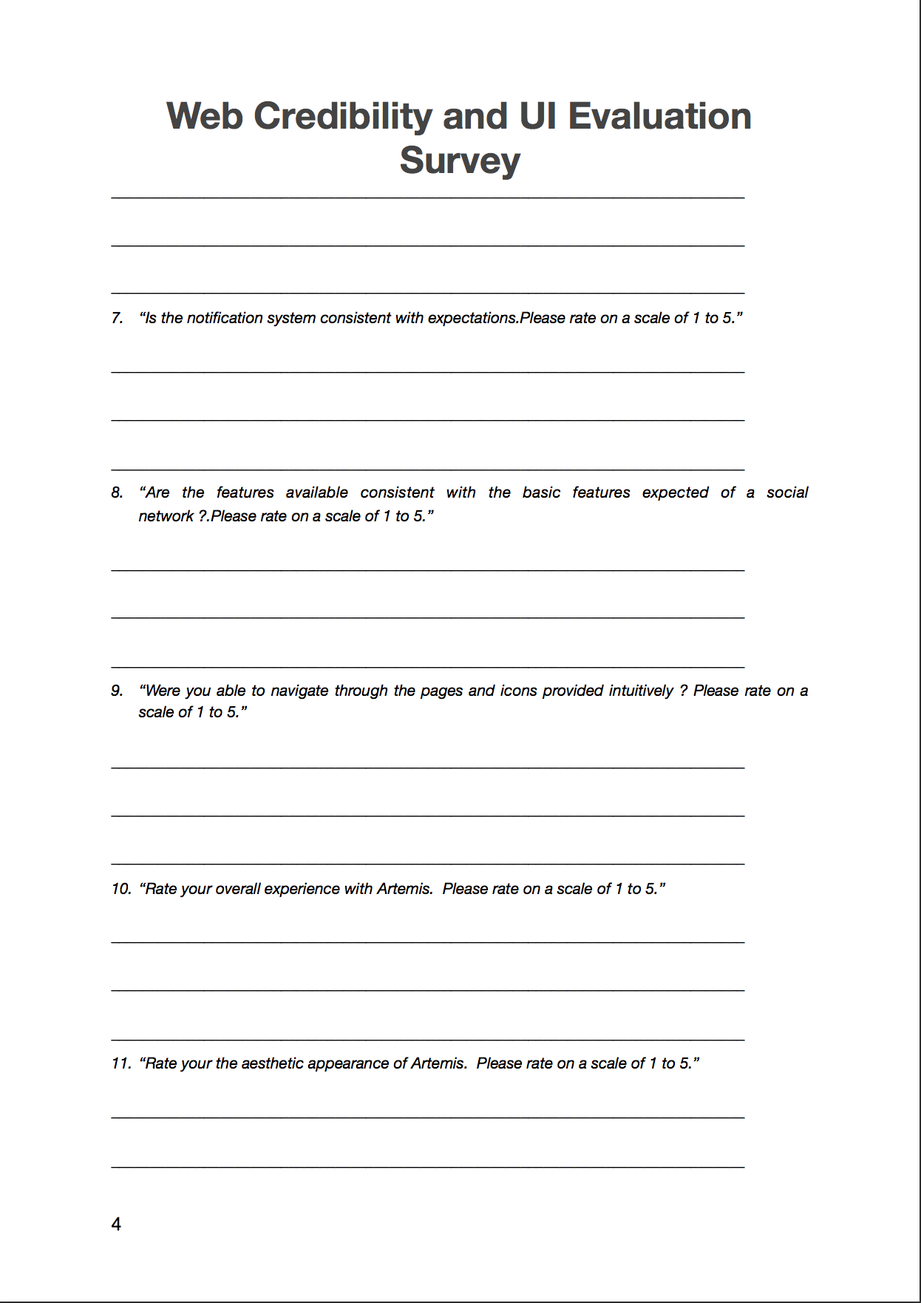
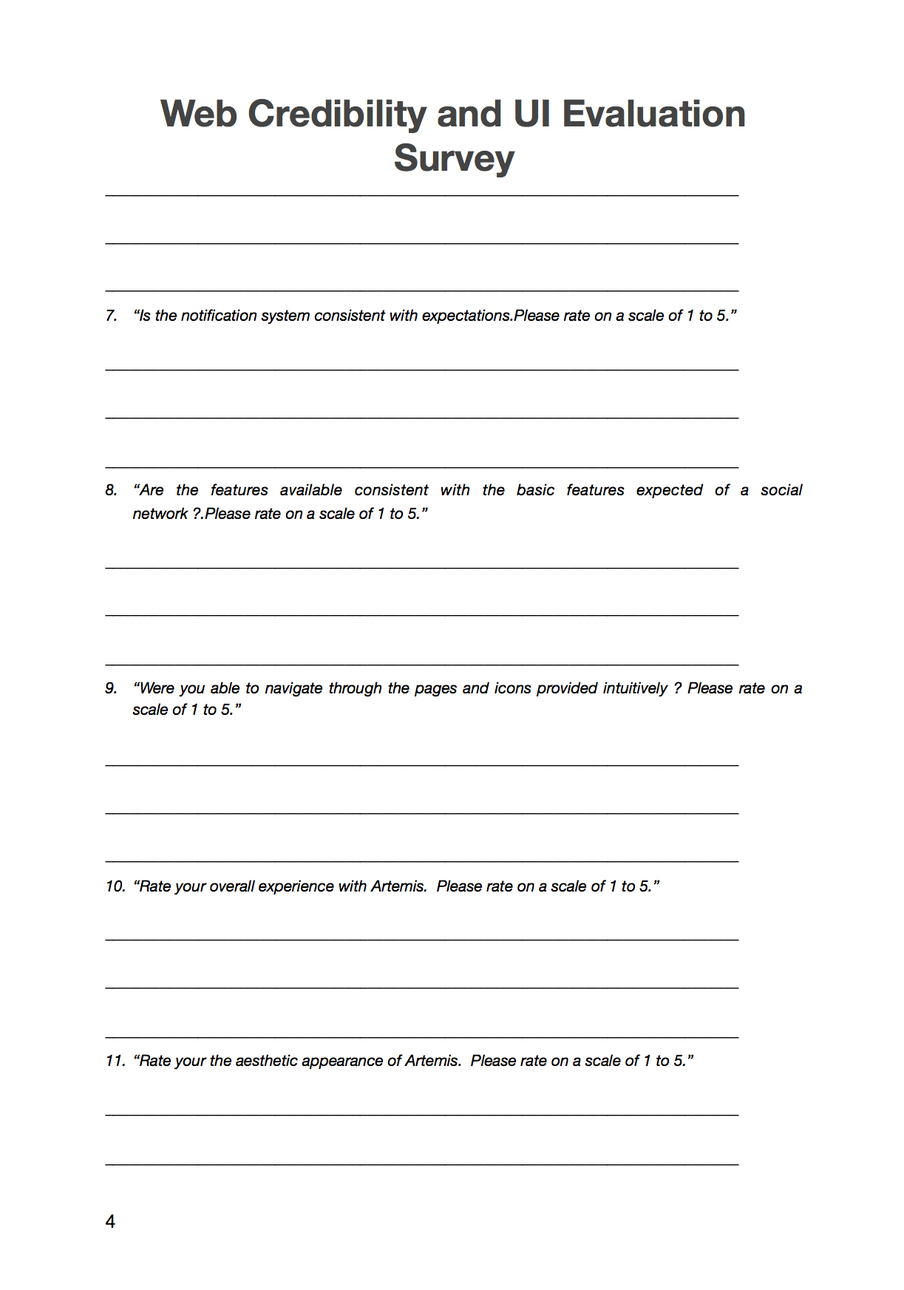
checkpoint

diff --git a/chapters/chapter03/chap03.tex b/chapters/chapter03/chap03.tex
@@ -46,7 +46,11 @@ In an earier sub-section titled  \textit{Three Principle Stakeholders} it was de
         
         \item \textbf{Focus Group}: An arbitrary group of people from the MSc and BSc Computer Science cohort were asked to participate in a brain storming session to help generate creative ideas for the proposed social  network. The underlying purpose was to generate creative ideas,use cases and possible modalities. The overarching outcome of this exercises was that there was a desire for a Facebook-StackoverFlow styled hybrid social network, as opposed to other mainstream social networks such as Twitter or Reddit(As corroborated by the TELED department,most students expressed a distaste for the relatively \textit{old fashioned} forums currently used at the UoB, which have an interface similar in substance to Reddit).
 
-        \item \textbf{Open Ended Evaluation and Refactoring}:  An arbitrary group of ten people from the MSc and BSc Computer Science cohort were asked to participate in an Open Ended Evaluation. As part of the  evaluation participants were asked to perform a series of use cases to thoroughly test Artemis and assess the \textit{Web Credibility} values it is supposed to adhere too. Additionally users were strongly encouraged to explore, break,test and hack Artemis to the best of their abilities. The questionnaire which was designed to evaluate Web Credibility yielded significant feedback relevant tot he GUI and a bug report/user requests list was also generated as a result of the exercises. This feedback was used to refactor Artemis as per user values and design areas that were lacking in quality; Further details are provided later in this report.
+        \item \textbf{Open Ended Evaluation and Refactoring}:  A group of ten people from the MSc and BSc Computer Science cohort were asked to participate in an Open Ended Evaluation (Appendix A1). The purpose of this evaluation was to assess and improve the Web Credibility of the Artemis UI and UX  and find any bugs or anomalies in the code. The results were subsequently used to refactor the source code and improve the UI (thus enhancing the underlying rationale of making it a \textit{Persuasive Technology} as discussed under the section in the chapter titled \textit{Persuasive Web Design}).
+        
+        As part of the  evaluation participants were asked to perform a series of use cases. The purpose of this step was to encourage the rigorous evaluation of all feature of Artemis. However users were also strongly encouraged to explore Artemis and try to maliciously break or damage the program (so as to cover use cases that might not have been envisioned). Furthermore users were required to test the application \textbf{unassisted} and without intervention, as is reasonably possible.
+        
+        The approach yielded thorough feedback and bugs in Artemis. Therefore the code was subsequently refactored and improvements to the User Interface were made. These have been identified and discussed in the chapter on evaluation.
         
         
     \end{itemize}
@@ -60,7 +64,7 @@ At the core of a rationale for embedding  learning models \& methodologies, peda
 
 The broad research area of \textit{captology}, by the Stanford Persuasive Technology Lab (STPL) covers the somewhat controversial study of  how computer and applications can be designed to change what people think and do \cite{Fogg2002a,Fogg2002,Fogg2001,Fogg1999}. Whilst extensive research of this area is deemed beyond the constraints of the project, some consideration is given to the constituent factors that improve user acceptance and/or influence; \textit{Web Credibility} and resultantly \textit{Web Application Security} and \textit{User Accessibility}.
 
-It is proposed that by enhancing web credibility and application security, security the TEL solution can be designed in a manner that enhances user acceptance and adoption; Effectively not just making the TEL solution more effective in achieving it's intended purpose, but also avoiding a common cause of failure for TEL solutions implemented at the UoB i.e. lack of adoption of applications by relevant users due to poor reliability,aesthetics, accessiblity and usability.
+It is proposed that by enhancing web credibility and application security, security the TEL solution can be designed in a manner that enhances user acceptance and adoption; Effectively not just making the TEL solution more effective in achieving it's intended purpose, but also avoiding a common  underlying cause of failure for TEL solutions implemented at the UoB i.e. lack of adoption of applications by relevant users due to poor reliability,aesthetics, accessibility and usability. Indeed the underlying cause of failure was corroborated by instructors in the CS department who did not use certain TEL solutions available to them due to broken functionality or poor aesthetics i.e. Core issues against which the STPL advises so as to increase an application's \textit{Credibility} \cite{Fogg2002a,Fogg2002,Fogg2001,Fogg1999} and enhance application adoption or usage.
 
 
 
@@ -71,12 +75,12 @@ It is proposed that by enhancing web credibility and application security, secur
 
 \subsection{Web Credibility}
 
-One aspect of making a \textit{persuasive} TEL solution, is by enhancing \textit{web credibility}. Web credibility within the context of designing this TEL solution refers to embedding best practice during web development, so as to influence a user's perspective of trustworthiness of the tool itself \cite{Fogg2001,Fogg2002} i.e. making the social network ultimately more persuasive and fit for purpose, by enhancing user perceptions of reliability and trustworthiness of the application \cite{Fogg2001} and effectively improving user acceptance.
+One aspect of making a \textit{persuasive} TEL solution, is by enhancing \textit{web credibility}. Web credibility within the context of designing this TEL solution refers to embedding best practice within web design, so as to influence a user's perspective of trustworthiness of the tool itself \cite{Fogg2001,Fogg2002} i.e. making the social network ultimately more persuasive and fit for purpose, by improving user perceptions of reliability and trustworthiness of the application \cite{Fogg2001} and effectively improving user acceptance.
 
 
 In view of the project constraints, it is proposed that web credibility for the proposed web application can be achieved by adopting  the \textit{Stanford Guidelines for Web Credibility} \cite{Fogg2002a}. These guidelines are effectively a condensed and easy to follow framework for developing a Web Credible application based on the extensive research carried out by the STPL and associates; effectively aiding web developers to enhance web credibility based on the findings of quantitative research as opposed to mere intuition \cite{Fogg2002a,Fogg2002,Fogg1999}.
 
-These are listed as follows and briefly explained within the context of developing a web based social network and possible use cases that can be developed:
+These are listed as follows and briefly explained within the context of developing Artemis  and it's use cases:
 
 \begin{enumerate}
     \item \textbf{"Make it easy to verify the accuracy of the information on your site ?"} \cite{Fogg2002a}:
@@ -84,10 +88,16 @@ These are listed as follows and briefly explained within the context of developi
     The recommendation by STPL here is to allow for third party assurances such as citations, references and source material \cite{Fogg2002a}. There are several ways that this can be embedded in the design of a proposed social network. This was implemented and embedded in Artemis as follows:
     \begin{enumerate}
         
-        \item As depicted in \textbf{Figure \ref{fig:UseCaseParticipatory}}, a participatory learning model has been adapted to illustrate the underlying rationale for selecting a social network as an appropriate  modality for the TEL solution. It is envisaged that instructor intervention and scrutiny from the rest of the cohort will make it easy to verify the authenticity of the information. An illustration of a possible case where this can happen is illustrated below:
-    
-        \hl{Add image here later}
-        \item This possible use case (illustrated in previous figure) was proposed during the focus group as well and the likelihood corroborated via course instructors. It was agreed upon by consensus that it is a reasonable assertion that when material is shared on Artemis it can easily be verified by other students, course instructors or teaching assistants via post \textit{likes} and \textit{comments}.
+        \item As illustrated in a previous use case in \textbf{Figure \ref{fig:UseCaseParticipatory}}, a participatory learning model has been adapted to illustrate the underlying rationale for selecting a social network as an appropriate  modality for the TEL solution. It is envisaged that instructor intervention and scrutiny from the rest of the cohort will make it easy to verify the authenticity of the information. An illustration of a possible case where this can happen is illustrated below:
+            
+        \begin{figure}[H]
+        	\centering
+        	\includegraphics[scale=0.45,right]{chapters/chapter03/figures/comment.png}
+        	\mycaption[Illustration of  Use Case, depicting possible adaptation of Participatory Learning Model to Proposed Social Network]{Illustration of  Use Case, depicting possible adaptation of Participatory Learning Model to Proposed Social Network}
+        	\label{fig:UseCaseParticipatory}
+        \end{figure}
+        
+        This possible use case (illustrated in previous figure) was also proposed during the focus group as well and the likelihood of it instructor intervention corroborated via course instructors. It was agreed upon by consensus that it is a reasonable assertion that when material is shared on Artemis it can easily be verified by other students, course instructors or teaching assistants via post \textit{likes} and \textit{comments}.
     
     \end{enumerate}
     
@@ -134,11 +144,13 @@ These are listed as follows and briefly explained within the context of developi
     \item \textbf{"Highlight the expertise in your organization and in the content and services you provide."} \cite{Fogg2002a}:
     
    
-   The Artemis Wiki as shown in the figure on \textbf{page \pageref{wiki}} has been used to highlight the technical aspects of Artemis e.g. the accessibility and security features behind Artemis. Furthermore the wiki is used to communicate the pedagogical rationale behind the project i.e. the design aspects and use cases. Effectively the wiki summarizes the technical and design features of the project for the benefit of users, so as to provide assurance in the expertise behind the project.
+   The Artemis Wiki as shown in the figure on \textbf{page \pageref{wiki}} has been used to highlight the technical aspects of Artemis e.g. the accessibility and security features behind Artemis via the content of the application. Furthermore the wiki is used to communicate the pedagogical rationale behind the project i.e. the design aspects and use cases. Effectively the wiki summarizes the technical and design features of the project for the benefit of users, so as to provide assurance in the expertise behind the project.
+   
+   The developer page which can also be accessed via Artemis can be used to highlight the expertise behind Artemis (ideally at the time of deployment an experienced team of developers will maintain the application and can reuse these links).
    
     \item \textbf{"Show that honest and trustworthy people stand behind your site"} \cite{Fogg2002a}:
     
-    STPL recommends showing users that the people behind the web application are \textit{real} \cite{Fogg2002a}. This has been achieved in several ways:
+    STPL recommends showing users that the people behind the web application are \textit{real} \cite{Fogg2002a}. This has been implemented in Artemis as follows:
     \begin{enumerate}
         \item Allowing for rich contextual data to be illustrated to the user when viewing other user's profiles i.e. users are able to determine that other profiles on the network either belong to fellow students or expert instructors.
         \item A separate page for biographical information of the developers as recommended by the STPL \cite{Fogg2002a} and illustrated on \textbf{page \pageref{developer}}.
@@ -147,42 +159,43 @@ These are listed as follows and briefly explained within the context of developi
     
     \item \textbf{"Make it easy to contact you."} \cite{Fogg2002a}:
     
-    This this can and has been done by simply adding developer contact details for bug reports, suggested improvements and feedback via the social networks to the UI i.e. the developers can be contacted via the click of a button in the nav bar of Artemis, which is accesible on every page. Furthermore detailed information is provided in the Wiki, ReadMe markdown, Bug and Error reporting page and developer's personal page to make it easy for users to contact the developer.
+    This this can and has been done by simply adding developer contact details for bug reports, suggested improvements and feedback via the social networks to the UI i.e. the developers can be contacted via the click of a button in the nav bar of Artemis, which is accessible on every page of Artemis at all times. Furthermore detailed information is provided in the Wiki, ReadMe markdown, Bug and Error reporting page and developer's personal page to make it easy for users to contact the developer and learn more about the application.
 
     \item \textbf{"Design your site so it looks professional (or is appropriate for your purpose)"} \cite{Fogg2002a}:
     
-    As per STPL recommendations, user acceptance testing was carried out to rigorously evaluate and subsequently refactor Artemis. Whilst during the evaluation process the feedback was largely positive, a log of all issues was kept and all errors/user preferences were accounted for via code refactoring (Collated, identified and explained in a later chapter).
+    As recommended by STPL and implemented in this project , user acceptance testing was carried out to rigorously evaluate and subsequently refactor Artemis. User testers were intentionally encouraged to explore the application,  maliciously try to break it and undergo a series of Use Cases (See Appendix A1) unassisted. Whilst during the evaluation process the feedback was largely positive, a log of all issues was kept and all errors/user preferences were accounted for via code refactoring (Collated, identified and explained in a later chapter).
 
     \item \textbf{"Make your site easy to use"} \cite{Fogg2002a}:
     
-    It was proposed during the focus group meeting with students that this can be done by simply seeking design inspiration from familiar social networks such as Facebook and Wikipedia, as users are likely to be familiar with the lay out and design of these sort of web applications\cite{Fogg2002a}. Furthermore the UI was evaluated and refactored as per user testing to enhance this aspect of user interaction and consideration  for assistive client side technologies such as screen readers or magnifiers was made with the use of ARIA (discussed in a later section of this chapter).
+    It was proposed during the focus group meeting with students that this can be done by seeking design inspiration from familiar social networks such as Facebook and Wikipedia, as users are likely to be familiar with the lay out and design of these sort of web applications\cite{Fogg2002a}. Furthermore the UI was evaluated and refactored as per user testing to enhance this aspect of user interaction and consideration  for assistive client side technologies such as screen readers or magnifiers was made with the use of ARIA (discussed in a later section of this chapter).
     
     \item \textbf{"Update your site's content often (at least show it's been reviewed recently)."} \cite{Fogg2002a}:
     
-    This should not be a problem within the context of a Web 2.0 application as the content is generated by users themselves and contributions from the developer are unlikely to be frequently required. However relevant disclosures for updates will be made via GitHub pages which are easily accessed from Artemis's UI.
+    Within the context of a Web 2.0 application that generates dynamically generated content contributed by the users, this should not necessarily be a problem. However after deployment the developer documentation that has been set up i.e. Wiki, Markdown file, Developer Page and Bug/Issue Report page, the relevant aspect of the project can be used to regularly update clients on recent releases and updates. This aspect is likely to be of more relevance after deployment and can only be anticipated preemptively. For the most part reasonable implementation is beyond the constraints of the project.
     
     \item \textbf{"Use restraint with any promotional content."} \cite{Fogg2002a}:
     
-    As this was not a commercial venture, this aspect of enhancing Web Credibility is easily addressed by using no promotional content.
+    As Artemis is not a commercial venture, this aspect of enhancing Web Credibility is easily addressed by using no promotional content.
     
     \item \textbf{"Avoid errors of all types, no matter how small they seem."} \cite{Fogg2002a}:
     
-    Once again these were sifted, logged and subsequently corrected via user evaluation, testing and refactoring. These have been collated and will be identified and discussed in a later chapter.
+    The user evaluation testing was carried out without developer intervention and user testers were strongly encouraged to try and maliciously break and rigorously hack the program. This yielded valuable feedback used to refactor the code and will be discussed in a later chapter on evaluation and refactoring.
+    
 \end{enumerate}
 \newpage
 
 
 \section{Web Application Security}
 
-With the transition of the world wide web from web-sites to web applications, i.e. the transition towards Web 2.0, a new host of security vulnerabilities moving away from traditional server side vulnerabilities towards new vectors such as client side have arisen \cite{Dayfdd2011}. Given the underlying importance of addressing common Web Application Security vulnerabilities \cite{Dayfdd2011} and it's negative impact on areas including but not limited to web credibility \cite{Fogg2002a,Fogg1999} that can affect the overall success and efficacy of the tool and even harm the users, this issue must be addressed for Artemis.
+With the transition of the world wide web from web-sites to web applications, i.e. the transition towards Web 2.0, a new host of security vulnerabilities moving away from traditional server side vulnerabilities towards new vectors such as vectors originating from client side have arisen \cite{Dayfdd2011}. Given the underlying importance of addressing common Web Application Security vulnerabilities \cite{Dayfdd2011} and it's negative impact on areas including but not limited to web credibility \cite{Fogg2002a,Fogg1999} that can affect the overall success and efficacy of the tool and even harm the users, this issue must be addressed for Artemis.
 
 \subsection{OWASP}
 
-An extensive review of web application security is desirable but beyond the reasonable constraints of this project. Therefore  utilising the \textit{Open Web Application Security Project (OWASP) Top 10} \cite{OWASP2017} for identifying common or important design vulnerabilities and mitigating them will be used during development, as a viable alternative achievable within the constraints of the project.
+An extensive review of web application security is desirable but beyond the reasonable constraints of this project. Therefore  utilising the \textit{Open Web Application Security Project (OWASP) Top 10} \cite{OWASP2017} for identifying common or important design vulnerabilities and mitigating them was  used during development, as a viable alternative achievable within the constraints of the project.
 
 The Open Web Application Security Project is an online community  and  a respected  not-for-profit organisation which creates free to use articles, methodologies, documentation, tools, and technologies towards the benefit of web application security \cite{OWASP}. The organisation  annually releases research that identifies and underlines mitigation strategies for the \textit{"Ten Most Critical Web Application Security Risks"}\cite{OWASP2017} identified threat agents within the scope of qualitative benchmarks i.e. possible attack vectors, the prevalence and detectability of security vulnerabilities, the technical implications and the commercial/business implications.
 
-The rationale behind these qualitative benchmarks to assist the quantification and ranking of security risks,  is illustrated as via the help of the following diagram:
+The rationale behind these qualitative benchmarks to assist the quantification and ranking of security risks,  is illustrated as via the help of the following diagram which breaks a security vulnerability down into stages for classification and consideration:
 
 % A single figure
 \begin{figure}[H]
@@ -192,7 +205,7 @@ The rationale behind these qualitative benchmarks to assist the quantification a
 	\label{fig:Consideration of Threat Agents}
 \end{figure}
 
-The OWASP foundation reasons \cite{OWASP2017} that attackers or threat agents can exploit various modes of attack or \textit{attack vectors}, based on \textit{prevalence} and ease of \textit{detecting security weaknesses} (vulnerabilities) that can have a negative impact  within a generic technical or application specific commercial context \cite{OWASP2017}. Apart from application specific implications, the rest of these benchmarks can be classified based on the severity; which results in classification for the purpose of ranking the OWASP Top 10 vulnerabilities:
+The OWASP foundation reasons \cite{OWASP2017} that attackers or threat agents can exploit various modes of attack or \textit{attack vectors}, based on \textit{prevalence} and ease of \textit{detecting security weaknesses}/vulerabilities that can have a negative impact  within a generic technical or application specific commercial context \cite{OWASP2017}. Apart from application specific implications, the rest of these benchmarks can be classified based on the severity; which results in classification for the purpose of ranking the OWASP Top 10 vulnerabilities:
 
 % A single figure
 \begin{figure}[H]
@@ -202,7 +215,7 @@ The OWASP foundation reasons \cite{OWASP2017} that attackers or threat agents ca
 	\label{fig:OWASP Risk Rating Methodology}
 \end{figure}
 
-Finally the risk rating methodology is used to compile an annual list of the most common, detectable and damaging security threats, along with mitigation strategies \cite{OWASP2017}. The proposed OWASP Top 10 for 2017, is effectively a mitigation strategy for this project that considers likelihood and impact. Likelihood and impact seem to be a reasonable approach to security within the context of this project, as predicting attack vectors for every eventuality is not just futile but also undoubtedly unfeasible. Therefore within the context of the following attack vectors, Artemis has mitigated the risk as follows:
+Finally the risk rating methodology is used to compile an annual list of the most common, detectable and damaging security threats, along with mitigation strategies \cite{OWASP2017}. The proposed OWASP Top 10 for 2017, is effectively a mitigation strategy for this project that considers the likelihood and impact of security vulnerabilities. This seems to be a reasonable approach to security within the context of this project, as predicting attack vectors for every eventuality is not just futile but also undoubtedly unfeasible. Therefore within the context of the following attack vectors, Artemis has mitigated the risk as follows:
 
 \begin{enumerate}
     \item \textbf{Injection}:
@@ -216,7 +229,9 @@ Finally the risk rating methodology is used to compile an annual list of the mos
     	\label{injection}
     \end{figure}
     
-    The most common cause of code injection i.e. SQL injection has been easily dealt with via the use of prepared statements to interact with the MariaDB in Artemis; otherwise known as a parameterised statement, a prepared statement is used to execute the same statement repeatedly with high efficiency and prevent SQL injection as per the PHP API\cite{PHP}. The use of prepared statements eliminates the possibility of SQL injection and avoid the pitfalls of relying on \textit{Escaping Strategy} (albiet as an extra layer of security Artemis does use PHP's native MySQLi escape methods, despite not actually being necessary in lieu of prepared statements), which can be notoriously hard to implement perfectly. To completely mitigate this attack vector all user input is also sanitized via PHP's native \textit{strip\_tags} function, which sanitizes all PHP and HTML code into ordinary strings. Effectively the relevant interpreters have been insulated from user injected code and this risk has been mitigated in Artemis.
+    The most common cause of code injection i.e. SQL injection has been easily dealt with via the use of prepared statements to interact with the MariaDB in Artemis; otherwise known as a parameterised statement, a prepared statement is used to execute the same statement repeatedly with high efficiency and prevent SQL injection as per the PHP API\cite{PHP}. The use of prepared statements eliminates the possibility of SQL injection and avoid the pitfalls of relying on \textit{Escaping Strategy} (albiet as an extra layer of security Artemis does use PHP's native MySQLi escape methods, despite not actually being necessary in lieu of prepared statements), which can be notoriously hard to implement perfectly.
+    
+    To completely mitigate this attack vector all user input is  sanitized via PHP's native \textit{strip\_tags} function. As per the PHP manual this sanitizes all PHP and HTML code into ordinary strings . Effectively the relevant interpreters have been insulated from user injected code and this risk has been mitigated in Artemis.
     
     \begin{figure}[h]
     	\centering

diff --git a/chapters/appendices/app0A.tex b/chapters/appendices/app0A.tex
@@ -7,29 +7,52 @@
 \chapter{Appendix A}
 \label{app:app01}
 
-\section{Risk Matrix}
+\section{User Evaluation Survey}
 
 \begin{figure}[H]
 	\centering
-	\includegraphics[scale=.68]{chapters/appendices/figures/Evaluation Survey.pdf}
-	\mycaption[Risk Matrix]{Risk Matrix}
-	\label{fig:Risk Matrix}
+	\includegraphics[scale=.60]{chapters/appendices/figures/1.png}
+	\mycaption[User Evaluation Survey - 1/6]{User Evaluation Survey - 1/6}
+	\label{fig:1/6}
 \end{figure}
 \newpage
 
-\section{Project Milestones, Tasks and Resultant List of Deliverables}
 \begin{figure}[H]
 	\centering
-	\includegraphics[scale=.9]{figures/summary}
-	\mycaption[List of Deliverables, Milestones and Tasks]{List of Deliverables, Milestones and Tasks.}
-	\label{fig:List of Deliverables, Milestones and Tasks}
+	\includegraphics[scale=.7]{chapters/appendices/figures/2.png}
+	\mycaption[User Evaluation Survey - 2/6]{User Evaluation Survey - 2/6}
+	\label{fig:2/6}
 \end{figure}
+\newpage
 
-
-\section{Gantt Chart}
 \begin{figure}[H]
 	\centering
-	\includegraphics[scale=.75]{figures/Gantt}
-	\mycaption[Project Planner: Gantt Chart]{Project Planner: Gantt Chart.}
-	\label{fig:Gantt}
+	\includegraphics[scale=.7]{chapters/appendices/figures/3.png}
+	\mycaption[User Evaluation Survey - 3/6]{User Evaluation Survey - 3/6}
+	\label{fig:3/6}
 \end{figure}
+\newpage
+
+\begin{figure}[H]
+	\centering
+	\includegraphics[scale=.7]{chapters/appendices/figures/4.png}
+	\mycaption[User Evaluation Survey - 4/6]{User Evaluation Survey - 4/6}
+	\label{fig:4/6}
+\end{figure}
+\newpage
+
+\begin{figure}[H]
+	\centering
+	\includegraphics[scale=.7]{chapters/appendices/figures/5.png}
+	\mycaption[User Evaluation Survey - 5/6]{User Evaluation Survey - 5/6}
+	\label{fig:5/6}
+\end{figure}
+\newpage
+
+\begin{figure}[H]
+	\centering
+	\includegraphics[scale=.7]{chapters/appendices/figures/6.png}
+	\mycaption[User Evaluation Survey - 6/6]{User Evaluation Survey - 6/6}
+	\label{fig:6/6}
+\end{figure}
+\newpage
